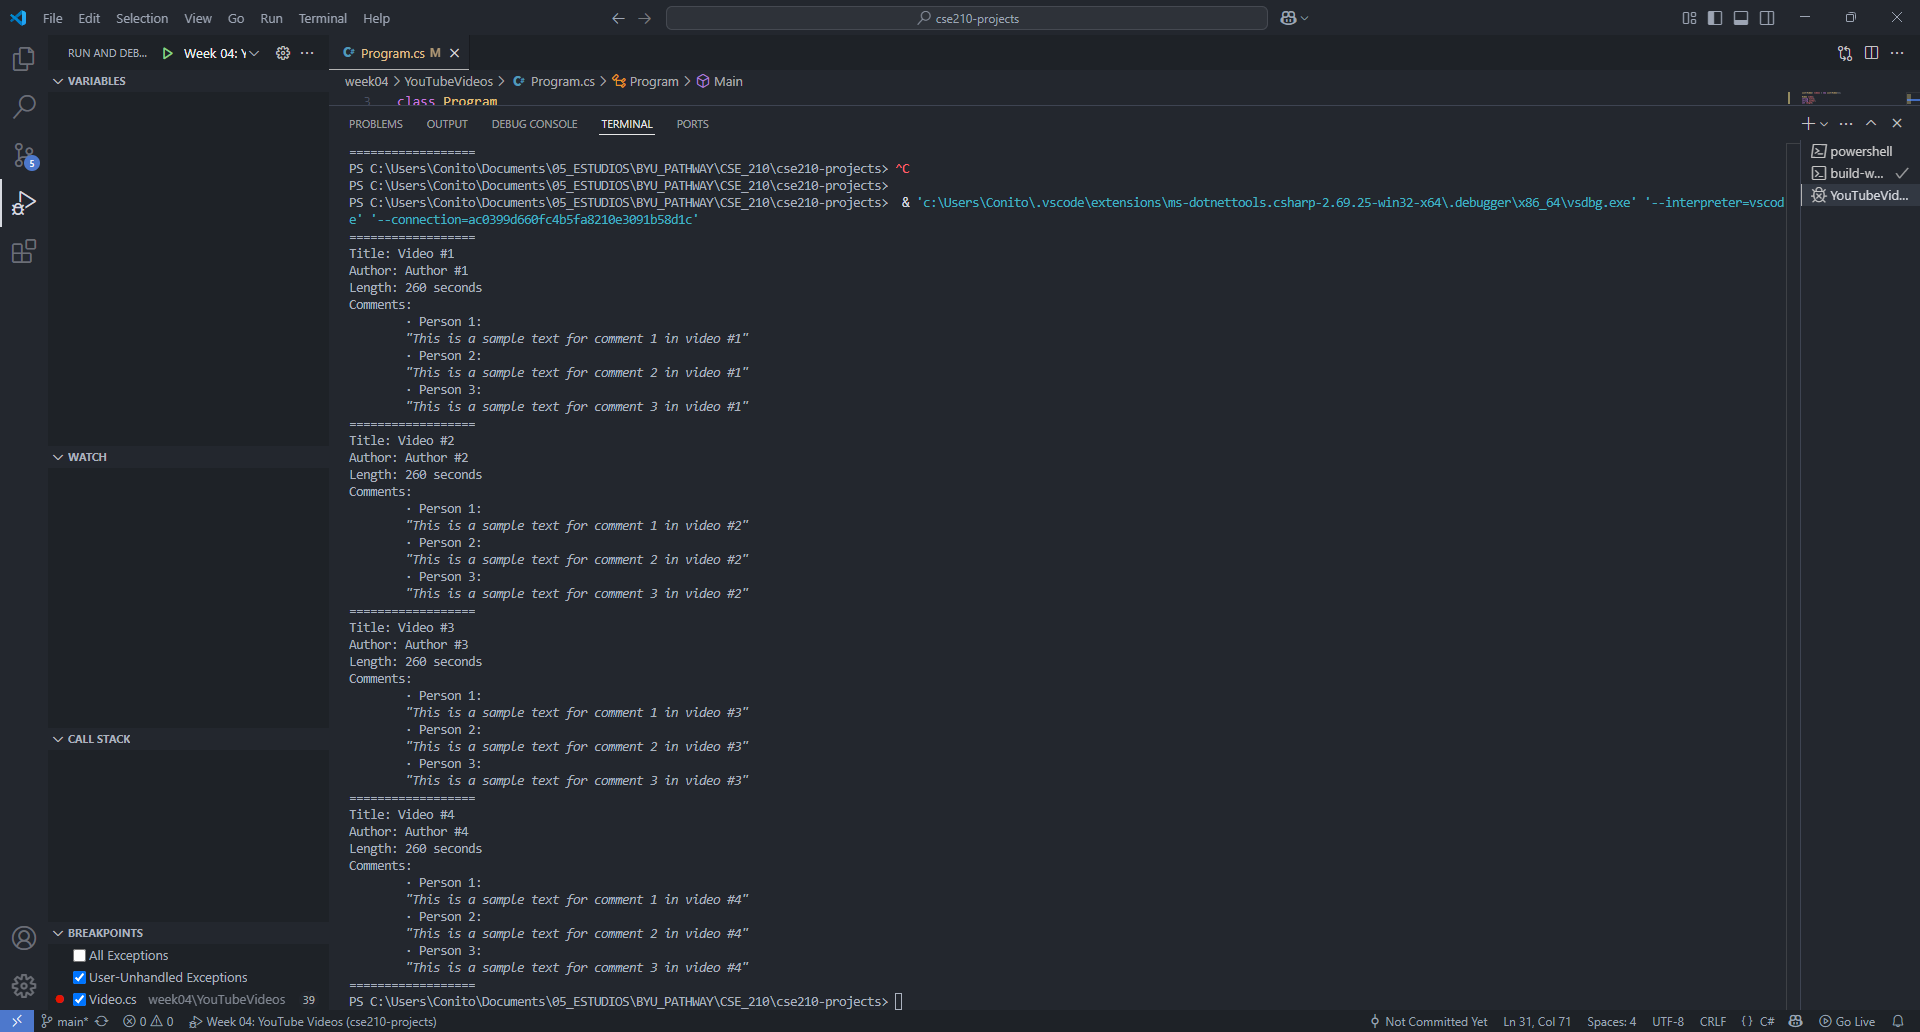
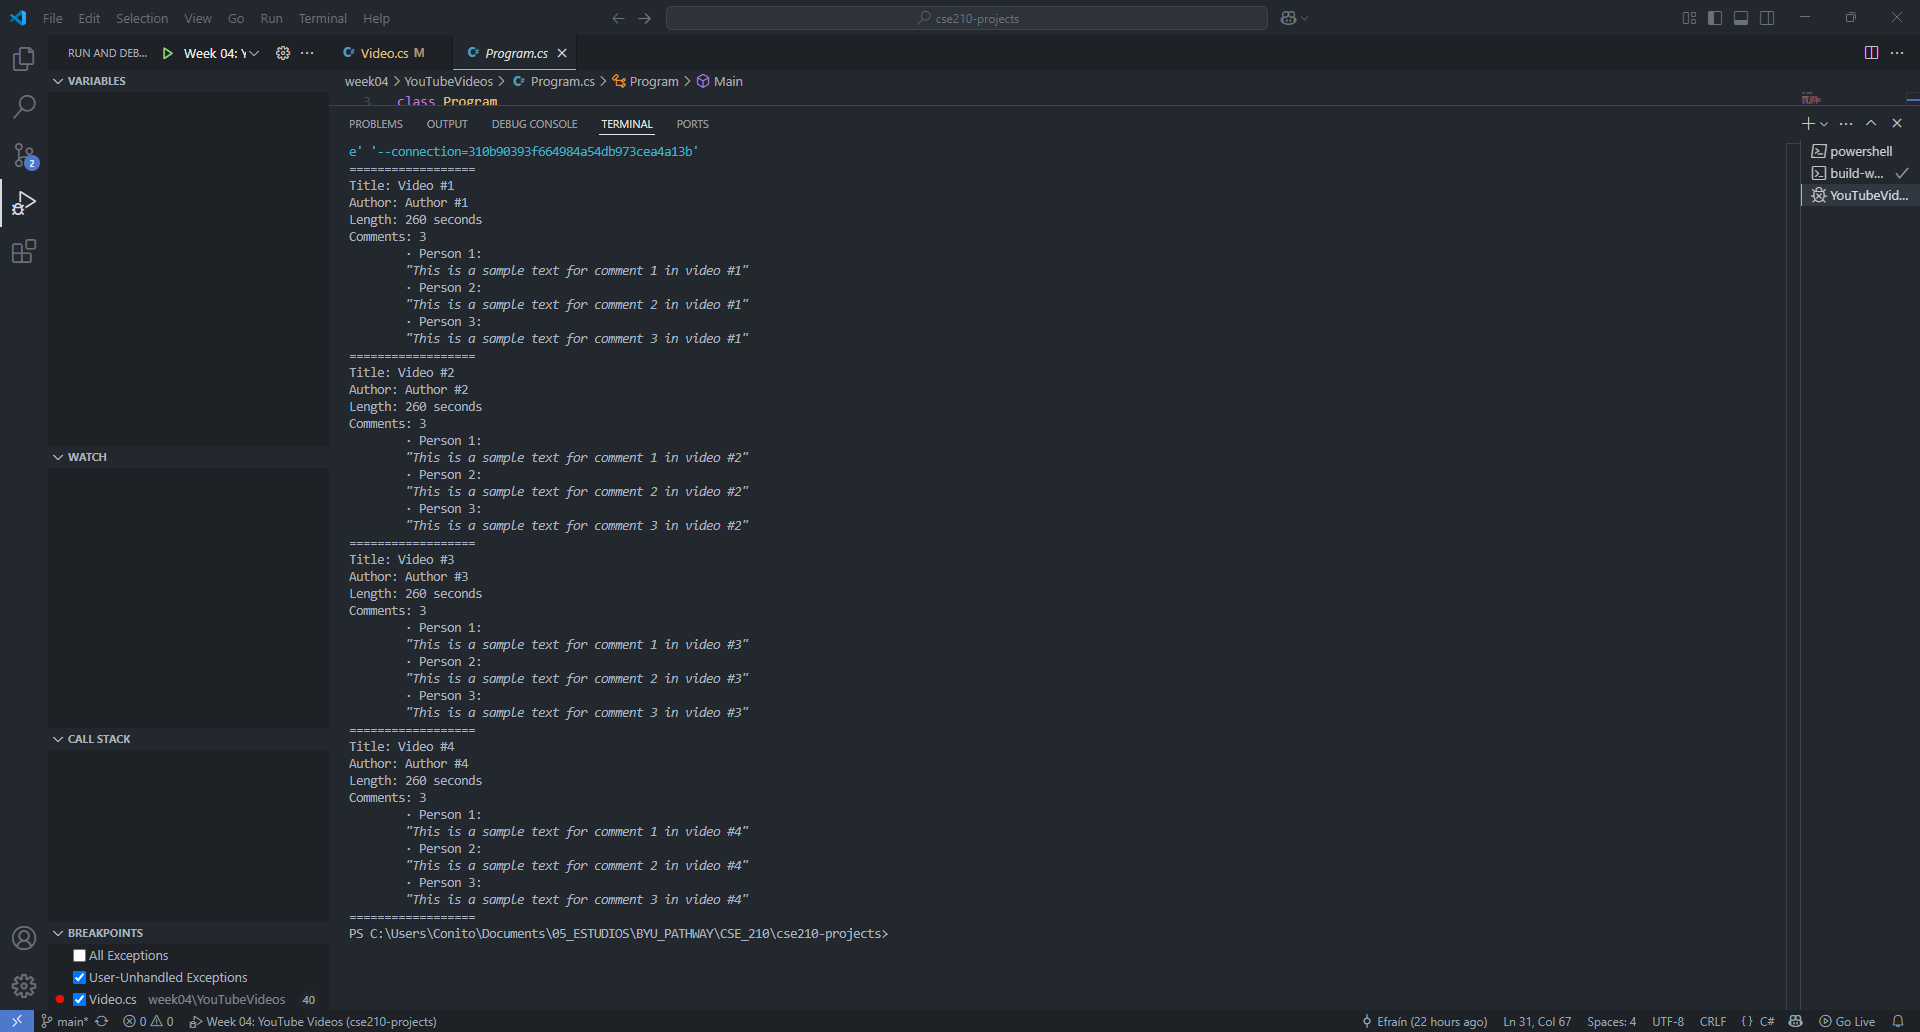
added comment number

diff --git a/week04/YouTubeVideos/Video.cs b/week04/YouTubeVideos/Video.cs
@@ -27,7 +27,8 @@ public class Video
         Console.WriteLine($"Title: {_title}");
         Console.WriteLine($"Author: {_author}");
         Console.WriteLine($"Length: {_lengthInSeconds} seconds");
-        Console.WriteLine("Comments:");
+        int n = GetNumberOfComments();
+        Console.WriteLine($"Comments: {n}");
 
         foreach (Comment comment in _comments)
         {

diff --git a/week04/OnlineOrdering/Product.cs b/week04/OnlineOrdering/Product.cs
@@ -1,0 +1,15 @@
+public class Product
+{
+    private string _name;
+    private string _id;
+    private float _price;
+    private float _quantity;
+
+    public Product
+
+    public float TotalCost()
+    {
+        float total = _quantity * _price;
+        return total;
+    }
+}
